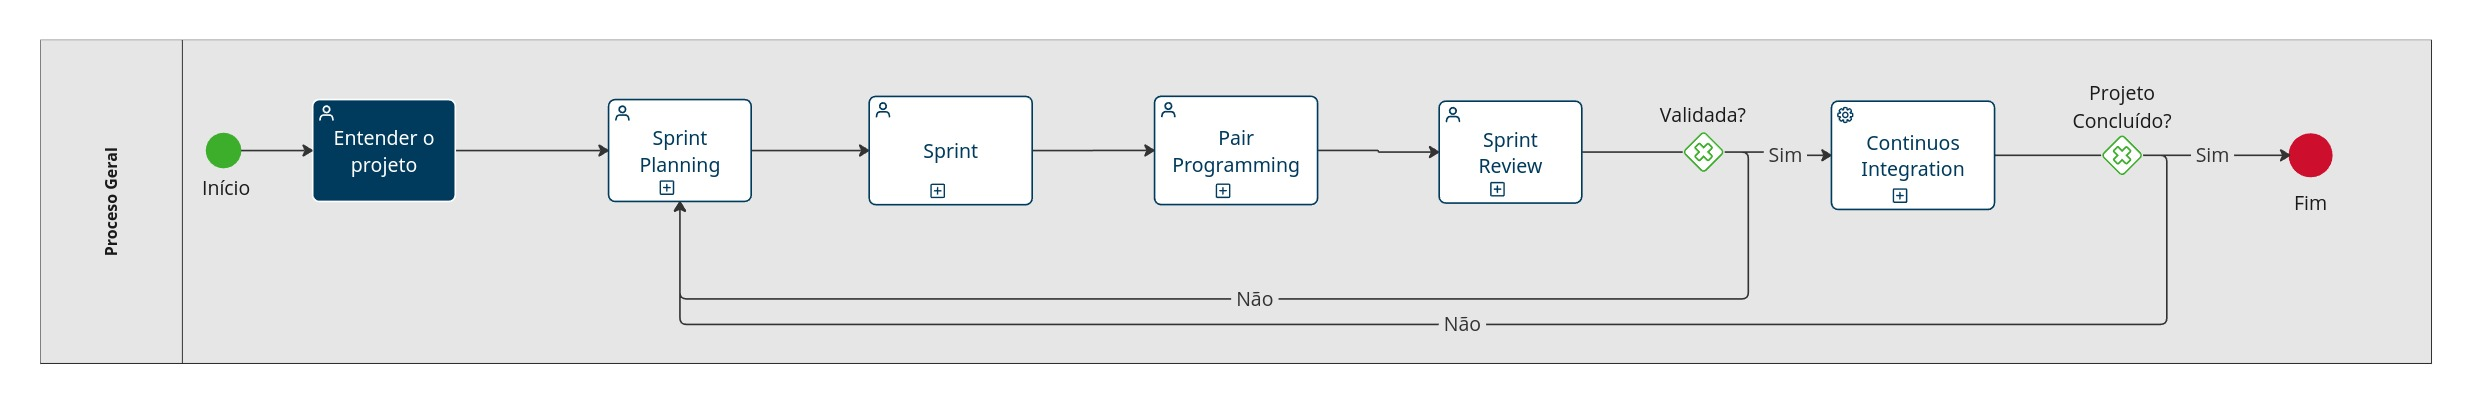
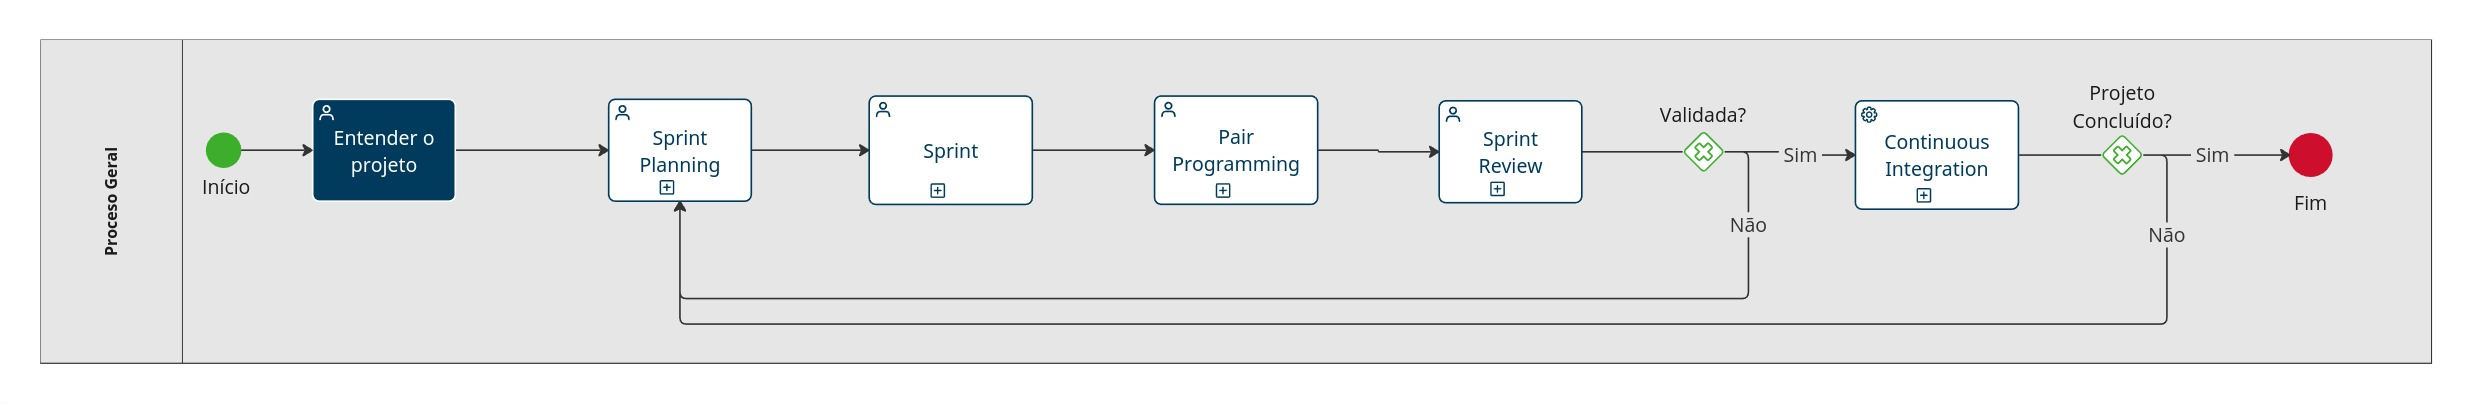
fix: typo

diff --git a/docs/Base/1.2.ProcessosMetodologiasAbordagens.md b/docs/Base/1.2.ProcessosMetodologiasAbordagens.md
@@ -31,7 +31,7 @@ Explicar o que estamos usando do Scrum.
 Explicar o que estamos usando do XP (Extreme Programming).
 
 - Pair Programming:
-- Continuos Integration:
+- Continuous Integration:
 
 ## Modelagem BPMN
 
@@ -88,11 +88,11 @@ As Figuras de 2 a 7 apresentadas abaixo, referem-se aos diagramas BPMN, que repr
   <p>Figura 6 - BPMN Sprint Review. </br> (Fonte: Ana Rocha, Gabriel Zaranza e Jefferson França. 2024)</p>
 </div>
 
-<!-- CONTINUOS INTEGRATION -->
-![ContinuosIntegration](../assets/img/bpmn/6continuos_integration.jpg)
+<!-- CONTINUOUS INTEGRATION -->
+![ContinuousIntegration](../assets/img/bpmn/6continuous_integration.jpg)
 
 <div style="text-align: center;">
-  <p>Figura 7 - BPMN Continuos Integration. </br> (Fonte: Ana Rocha, Gabriel Zaranza e Jefferson França. 2024)</p>
+  <p>Figura 7 - BPMN Continuous Integration. </br> (Fonte: Ana Rocha, Gabriel Zaranza e Jefferson França. 2024)</p>
 </div>
 
 ## Conclusão
